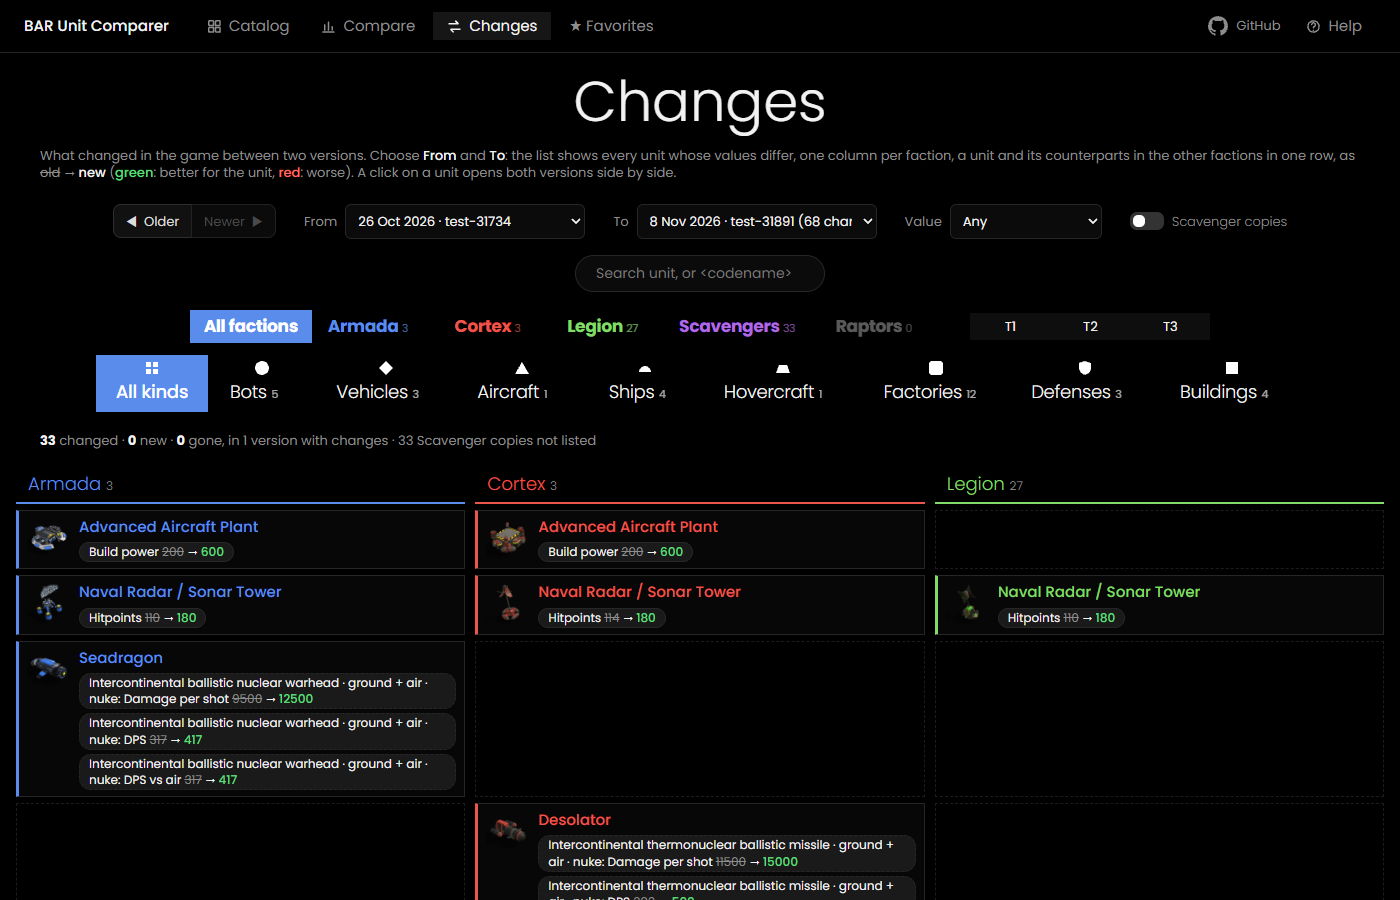
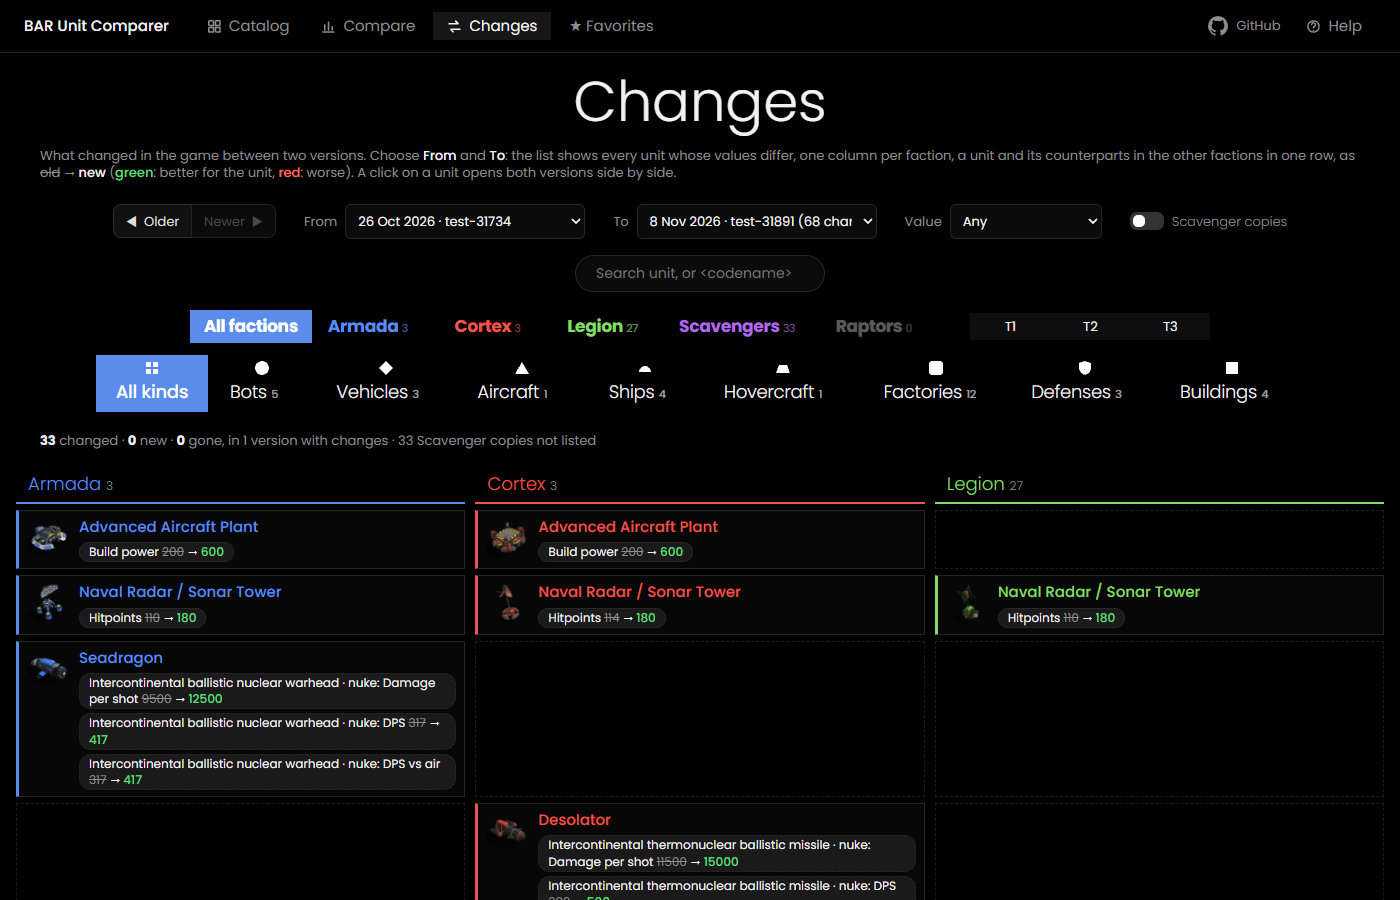
Description, README, documents and screenshots brought up to date
Claude-Session: https://claude.ai/code/session_01QeCYKoSgqsAqdpEWxxymXc

diff --git a/website/index.html b/website/index.html
@@ -5,10 +5,10 @@
 <meta name="viewport" content="width=device-width, initial-scale=1">
 <title>BAR Unit Comparer</title>
 <link rel="icon" type="image/svg+xml" href="favicon.svg">
-<meta name="description" content="Unit catalog and comparison for Beyond All Reason: all units of Armada, Cortex, Legion, Scavengers and Raptors side by side. An unofficial fan project.">
+<meta name="description" content="Unit catalog and comparison for Beyond All Reason: all units of Armada, Cortex, Legion, Scavengers and Raptors side by side, weapon by weapon, and what every patch changed. An unofficial fan project.">
 <meta property="og:type" content="website">
 <meta property="og:title" content="BAR Unit Comparer">
-<meta property="og:description" content="Unit catalog and comparison for Beyond All Reason: all units of Armada, Cortex, Legion, Scavengers and Raptors side by side. An unofficial fan project.">
+<meta property="og:description" content="Unit catalog and comparison for Beyond All Reason: all units of Armada, Cortex, Legion, Scavengers and Raptors side by side, weapon by weapon, and what every patch changed. An unofficial fan project.">
 <meta property="og:url" content="https://ralf1108.github.io/BARUnitComparer/">
 <meta property="og:image" content="https://ralf1108.github.io/BARUnitComparer/preview.png">
 <meta name="twitter:card" content="summary_large_image">

diff --git a/docs/website.md b/docs/website.md
@@ -52,13 +52,13 @@ website/assets/
 | `radar` | Radar range | `game.radarDistance` |
 | `speed` | Speed | `game.speed` |
 | `weapons` | Weapons | the different `type` values of the weapons, without `bogus` ones |
-| `shotDamage` | Damage per shot | sum over the counted weapons of one shot: `max(damages.default, damages.vtol) * projectiles * salvoSize` (counted: all but bogus weapons, shields, interceptors, paralyzers, stockpile and manual-fire weapons; `counted` in `unit_rules.py`) |
+| `shotDamage` | Damage per shot | sum over the counted weapons of one shot: `max(damages.default, damages.vtol) * projectiles * salvoSize` (counted, `firing` / `counted` in `unit_rules.py`: all but bogus weapons, shields, interceptors, paralyzers, stockpile and manual-fire weapons, and of a cannon that switches between a high and a low trajectory only the low one, `high_modes`) |
 | `shotsPerSecond` | Shots per second | `dps / shotDamage`: with one weapon 1 / `reload`; with several of different reload the rate that gives their DPS together |
 | `dps` | DPS | sum over the counted weapons of one shot / `reload` (= damage per shot × shots per second) |
 | `airDps` | DPS vs air | like `dps`, with `damages.vtol`, only the counted weapons that can hit aircraft (`hits_air`: the targets of the weapon's mount, `onlyTargets`, share a category with every aircraft: `all`, `mobile`, `notsub`, `nothover`, `notship`, `vtol`, `t4air`, `lightairscout`; none named: all; never `AircraftBomb` or `TorpedoLauncher`) |
 | `range` | Weapon range | `game.maxWeaponRange` |
 | `aoe` | Area of effect | the largest `damageAreaOfEffect` (radius, elmos) of the counted weapons |
-| `weaponList` | the list of weapons of a column; Changes | every real weapon (`weapon_list`: no bogus weapons, no shields, none without damage; the same weapon mounted twice is one entry with `n`, its values count all mounts): `id` (the weapon's name without the unit's name in front, the same in the Scavenger copy and in every version), `name` (`description`), `type`, `shotDamage`, `shotsPerSecond`, `dps`, `airDps`, `range`, `aoe`, `targets` (`air`: its targets are only aircraft categories, `vtol`, `t4air`, `lightairscout`; `both`: it hits aircraft and other units; `ground`: no aircraft; the list adds "· air" / "· ground + air" to the name), `kind` for what the totals leave out (`dgun`, `nuke`, `antinuke`, `emp`, `high`: the high trajectory of a cannon that switches between a high and a low one, `high_modes`: a weapon named like another one with `_high` at the end, the same description; only the low one is counted, as only one fires) |
+| `weaponList` | the list of weapons of a column; Changes | every real weapon (`weapon_list`: no bogus weapons, no shields, none without damage; the same weapon mounted twice is one entry with `n`, its values count all mounts): `id` (the weapon's name without the unit's name in front, the same in the Scavenger copy and in every version), `name` (`description`), `type`, `shotDamage`, `shotsPerSecond`, `dps`, `airDps`, `range`, `aoe`, `targets` (`air`: its targets are only aircraft categories, `vtol`, `t4air`, `lightairscout`; `both`: it hits aircraft and other units; `ground`: no aircraft; two icons right of the list of a column, `targetIcons`, show it for the weapon shown: round signs without a frame (not buttons): a tank for ground and water (green), a plane for aircraft (blue), dim when not hit, with a tooltip; All weapons: what the weapons of the totals reach together), `kind` for what the totals leave out (`dgun`, `nuke`, `antinuke`, `emp`, `high`: the high trajectory of a cannon that switches between a high and a low one, `high_modes`: a weapon named like another one with `_high` at the end, the same description; only the low one is counted, as only one fires) |
 | (worked out) | HP per metal, DPS per metal | `derive` in `app.js` (`derived` in `STATS`); not listed on Changes |
 
 Checked against beyondallreason.info: `armwar` (Centurion) 270 metal, 3100 energy, 00:42, 1590 hitpoints, speed 45, BeamLaser, DPS 183, range 325.

diff --git a/README.md b/README.md
@@ -4,7 +4,7 @@
 
 ## 👉 [**Open the website: https://ralf1108.github.io/BARUnitComparer/**](https://ralf1108.github.io/BARUnitComparer/) 👈
 
-Look up and compare the units of [Beyond All Reason](https://www.beyondallreason.info/) (BAR): every unit of Armada, Cortex, Legion, Scavengers and Raptors, with pictures and values, side by side, and what each patch of the game changed. It runs in the browser, also on a phone. An unofficial fan project.
+Look up and compare the units of [Beyond All Reason](https://www.beyondallreason.info/) (BAR): every unit of Armada, Cortex, Legion, Scavengers and Raptors, with pictures and values, side by side and weapon by weapon, and what each patch of the game changed. It runs in the browser, also on a phone. An unofficial fan project.
 
 ## Three pages
 
@@ -32,7 +32,7 @@ What a patch changed: every unit whose values differ between two game versions, 
 |---|---|
 | **Ref** (balance) | this unit is the reference: the others show the difference to it (**+** more, **−** less), green if that is better, red if it is worse (more metal: **+** in red), equal values grey |
 | **Versions** (clock, beside the list of versions) | every other game version of this unit next to it, the changed values marked; the list (white: several versions) shows the unit as it was in one of them |
-| **Weapon list** (below the version) | one weapon: its name, grey; several weapons: a white list, **All weapons** (the default) or one of them, e.g. the laser of a commander against the laser of another one; D-gun, nukes and EMP are left out of All weapons but can be chosen |
+| **Weapon list** (below the version) | one weapon: its name, grey; several weapons: a white list, **All weapons** (the default) or one of them, e.g. the laser of a commander against the laser of another one; D-gun, nukes, EMP and the high trajectory of a cannon that can switch between two are left out of All weapons but can be chosen. Two round signs right of it say what the weapon hits: ground and water (green) and aircraft (blue), dim if not |
 | **Counterparts** (arrows) | the units of the other factions that do the same job |
 | **Counters** (swords) | the units that are good against this unit |
 
@@ -43,9 +43,9 @@ A lit icon pressed again takes back what it added. Drag a column by its grip to 
 | **Undo / Redo / Clear** | take back or repeat a change (also Ctrl+Z / Ctrl+Y; the badge says how many steps there are); Clear starts again (it asks first) |
 | **Graphic / Table** | bars with pictures, or a compact table |
 | **+ Scav** | the Scavenger copy of every unit next to it |
-| **Save / Share** | keep the selection as a favorite, or share its link (the link holds everything: units, view, Ref, game version) |
+| **Save / Share** | keep the selection as a favorite, or share its link (the link holds the units with their versions and weapons, the view, + Scav and the Ref). **Favorites** in the header lists them; the middle mouse button opens one in a new tab |
 
-Click the name of a value (Metal, Hitpoints, ...) to sort the columns by it. Besides cost, hitpoints, speed and range the page shows **damage per shot**, **shots per second**, **DPS**, **DPS vs air** and the **area of effect**, and **HP per metal** and **DPS per metal**. The **game version** at the top shows the units as they were in an older patch.
+Click the name of a value (Metal, Hitpoints, ...) to sort the columns by it. Besides cost, hitpoints, speed and range the page shows **damage per shot**, **shots per second**, **DPS**, **DPS vs air** and the **area of effect**, and **HP per metal** and **DPS per metal**. The **game version** at the top shows the units as they were in an older patch; it always starts at the newest, and an older one is gold so that it is seen.
 
 **On a phone:** two units fit on the screen, swipe for more; **Ref** and a menu (three dots) with all tools in words; **+ Add units** opens the selection.
 

diff --git a/docs/exporter.md b/docs/exporter.md
@@ -45,7 +45,7 @@ One unit per line, sorted by unit name, keys sorted (two exports of the same gam
 | `weapons` | one entry per weapon: all fields of the weapon definition plus `damages` (damage per armor class name: `default`, `vtol`, ...) and `onlyTargets` (the categories of the units that the weapon's mount may aim at, `UnitDefs[].weapons[i].onlyTargets`, e.g. `vtol`, `notsub`, `surface`; the page works out from them whether the weapon hits aircraft) |
 | `builds` | unit names this unit can build |
 
-Damage per second of a weapon: `damages.default * projectiles * salvoSize / reload` (anti-air weapons: class `vtol`).
+Damage per second of a weapon: `damages.default * projectiles * salvoSize / reload` (anti-air weapons: class `vtol`). The website works out its values from this file in `exporter/unit_rules.py` (the totals, every weapon on its own, what it hits): [website.md](website.md), section "Fields of a unit".
 
 ## `counterparts.json`
 
